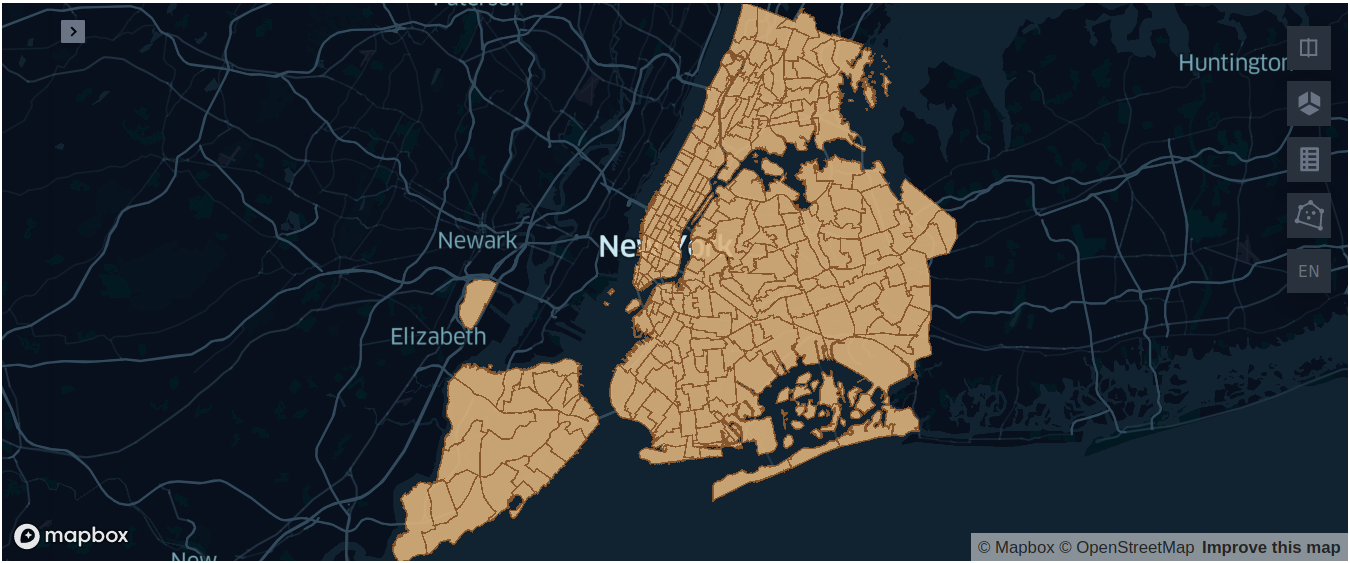
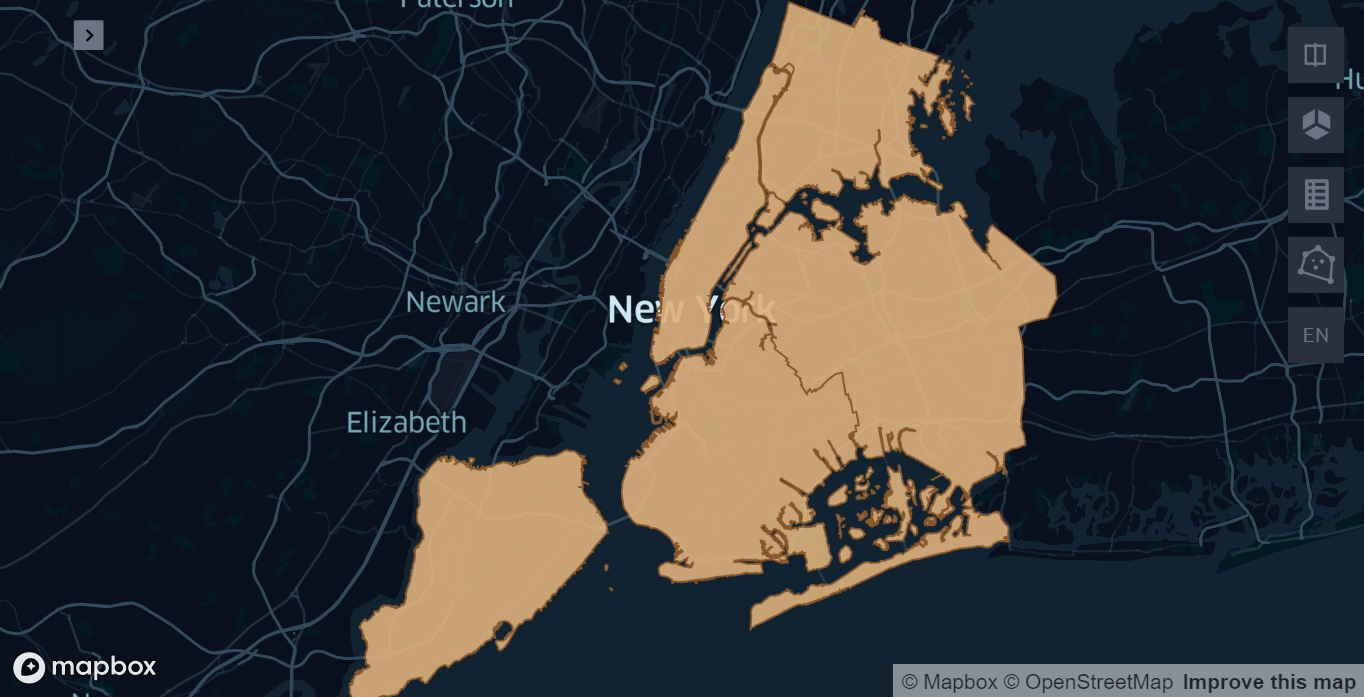
update

diff --git a/nytaxi/README.md b/nytaxi/README.md
@@ -116,7 +116,7 @@ KeplerGl(data={"pickup_points": pd.DataFrame(data={'pickup_points':arctern.ST_As
 ```python
 import shapefile
 import json
-nyc_shape = shapefile.Reader("/tmp/taxi_zones.shp")
+nyc_shape = shapefile.Reader("/tmp/taxi_zones/taxi_zones.shp")
 nyc_zone=[ shp.shape.__geo_interface__  for shp in nyc_shape.shapeRecords()]
 nyc_zone=[json.dumps(shp) for shp in nyc_zone]
 nyc_zone_series=pd.Series(nyc_zone)
@@ -127,18 +127,12 @@ arctern.ST_AsText(nyc_zone_arctern)
 Arctern 读取的数据结果如下：
 
 ```
-0      POLYGON ((933100.91835271 192536.085697202,933...
-1      MULTIPOLYGON (((1033269.24359129 172126.007812...
-2      POLYGON ((1026308.76950666 256767.697540373,10...
-3      POLYGON ((992073.46679686 203714.07598877,9920...
-4      POLYGON ((935843.310493261 144283.335850656,93...
-                             ...                        
-258    POLYGON ((1025414.78196019 270986.139363825,10...
-259    POLYGON ((1011466.96605045 216463.005203798,10...
-260    POLYGON ((980555.204311222 196138.486258477,98...
-261    MULTIPOLYGON (((999804.794550449 224498.527048...
-262    POLYGON ((997493.322715312 220912.386162326,99...
-Length: 263, dtype: object
+0    MULTIPOLYGON (((-8226155.13045259 4982269.9492...
+1    MULTIPOLYGON (((-8243264.85067129 4948597.8364...
+2    MULTIPOLYGON (((-8222843.67198779 4950893.7925...
+3    MULTIPOLYGON (((-8219461.92460008 4952778.7319...
+4    MULTIPOLYGON (((-8238858.86403699 4965915.0243...
+dtype: object
 ```
 
 获得当前纽约市地形数据文件的坐标系，并利用 Arctern 将该坐标系转成经纬度坐标系，即 “EPSG:4326” ：
@@ -146,7 +140,7 @@ Length: 263, dtype: object
 ```python
 from sridentify import Sridentify
 ident = Sridentify()
-ident.from_file('/tmp/taxi_zones.prj')
+ident.from_file('/tmp/taxi_zones/taxi_zones.prj')
 src_crs = ident.get_epsg()
 nyc_arctern_4326 = arctern.ST_Transform(nyc_zone_arctern,f'EPSG:{src_crs}','EPSG:4326')
 arctern.ST_AsText(nyc_arctern_4326)
@@ -155,18 +149,12 @@ arctern.ST_AsText(nyc_arctern_4326)
 坐标转换后的结果如下：
 
 ```
-0      POLYGON ((-74.184453 40.694996,-74.184489 40.6...
-1      MULTIPOLYGON (((-73.8233759726066 40.638987047...
-2      POLYGON ((-73.8479261409998 40.871342234,-73.8...
-3      POLYGON ((-73.9717741096532 40.7258212813371,-...
-4      POLYGON ((-74.1742173809999 40.5625680859999,-...
-                             ...                        
-258    POLYGON ((-73.851071161919 40.910371520111,-73...
-259    POLYGON ((-73.9017537339999 40.760775475,-73.9...
-260    POLYGON ((-74.0133261089999 40.7050307879999,-...
-261    MULTIPOLYGON (((-73.9438325669999 40.782859089...
-262    POLYGON ((-73.95218622 40.7730198449999,-73.95...
-Length: 263, dtype: object
+0    MULTIPOLYGON (((-73.8968088322377 40.795808445...
+1    MULTIPOLYGON (((-74.0505080640325 40.566422034...
+2    MULTIPOLYGON (((-73.8670614947212 40.582087976...
+3    MULTIPOLYGON (((-73.8366827410671 40.594946697...
+4    MULTIPOLYGON (((-74.0109284126803 40.684491472...
+dtype: object
 ```
 
 根据转换后的经纬度坐标，绘制的纽约市地形图如下：
@@ -185,7 +173,7 @@ KeplerGl(data={"nyc_zones": pd.DataFrame(data={'nyc_zones':arctern.ST_AsText(nyc
 # 该步骤会比较耗时
 nyc_arctern_one = arctern.ST_Union_Aggr(nyc_arctern_4326)
 nyc_arctern_one = arctern.ST_SimplifyPreserveTopology(nyc_arctern_one,0.005)
-is_in_nyc = [arctern.ST_Within(point,nyc_arctern_one[0])[0] for point in pickup_points ]
+is_in_nyc = arctern.ST_Within(pickup_points,nyc_arctern_one[0])
 pickup_in_nyc = pickup_points[pd.Series(is_in_nyc)]
 ```
 
@@ -201,7 +189,7 @@ KeplerGl(data={"pickup_points": pd.DataFrame(data={'pickup_points':arctern.ST_As
 ```python
 # 该步骤会比较耗时
 dropoff_points = arctern.ST_Point(nyc_df.dropoff_longitude,nyc_df.dropoff_latitude)
-is_dorpoff_in_nyc = [arctern.ST_Within(point,nyc_arctern_one[0])[0] for point in dropoff_points ]
+is_dorpoff_in_nyc = arctern.ST_Within(dropoff_points,nyc_arctern_one[0])
 dropoff_in_nyc=dropoff_points[is_dorpoff_in_nyc]
 KeplerGl(data={"drop_points": pd.DataFrame(data={'drop_points':arctern.ST_AsText(dropoff_in_nyc)})})
 ```
